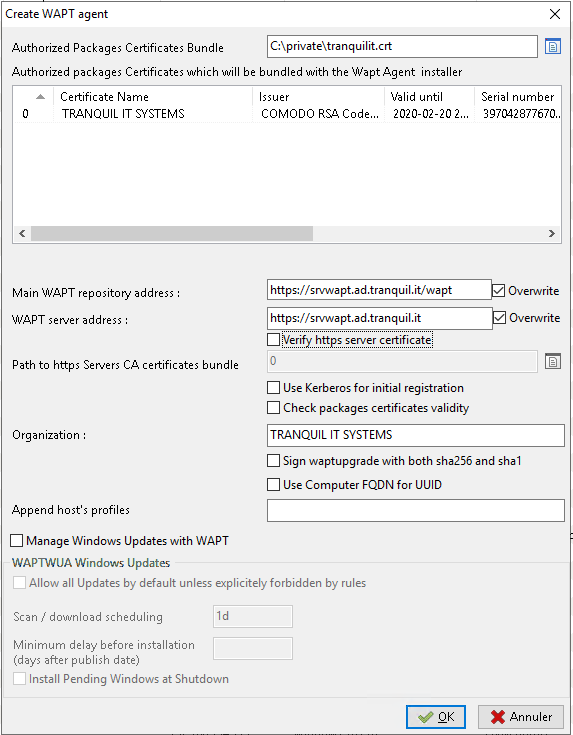
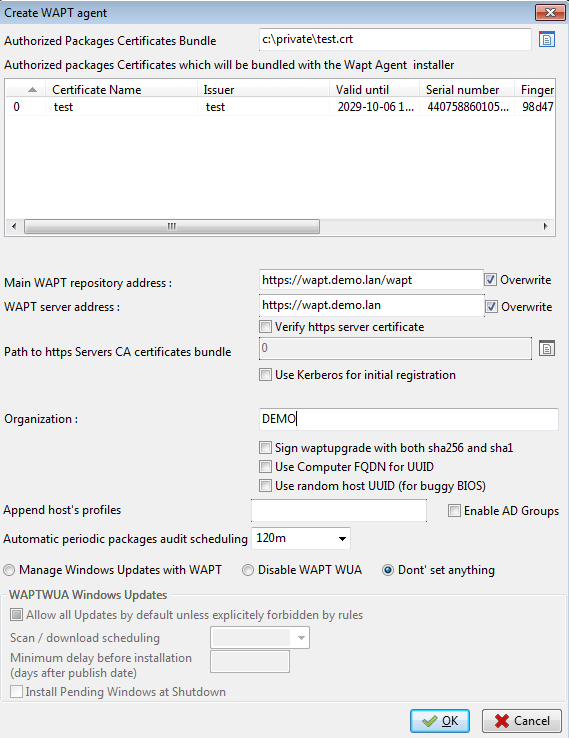
Additional information

diff --git a/source/wapt-configuration/waptagent/index.rst b/source/wapt-configuration/waptagent/index.rst
@@ -66,6 +66,7 @@ we have all files required to build the WAPT agent installer.
 
   * the checkbox :guilabel:`Verify the WAPT Server HTTPS certificate`;
 
+
   * the field :guilabel:`Path to the bundle of certificates` to verify
     the HTTPS certificate of the WAPT Server;
 
@@ -73,17 +74,30 @@ we have all files required to build the WAPT agent installer.
 
   * the field :guilabel:`Organization` to identify the origin of WAPT packages;
 
+  * the field :guilabel:`Sign waptupgrade with both sha256 and sha1` can be ignored because it is only useful when upgrading from version 1.3 ;
+  
+  * the field :guilabel:`Use computer FQDN for UUID` crazy can be checked if you want to uniquely identify your computer from their name rather than from their BIOS serial number;
+
+  * the field :guilabel:`Use computer FQDN for UUID` crazy can be checked if you want to uniquely identify your computer from their name rather than from their BIOS serial number;
+  
+.. danger::
+
+   * The checkbox **Use Kerberos for the initial registration** must be checked
+     **ONLY IF** you have followed the documentation
+     on **Configuring the Kerberos authentication**.
+   
+   * The checkbox **Verify the WAPT Server HTTPS certificate**must be checked
+     **ONLY IF** you have followed the documentation
+     on **Activating the verification of the SSL / TLS certificate**.
+
+
 .. figure:: waptagent-organisation-info.png
   :align: center
   :alt: Fill in the informations on your Organisation
 
   Fill in the informations on your Organisation
+  
 
-.. danger::
-
-   The checkbox **Use Kerberos for the initial registration** must be checked
-   **ONLY IF** you have followed the documentation
-   on **Configuring the Kerberos authentication**.
 
 * provide the password for unlocking the private key:
 

diff --git a/source/wapt-create-packages/package-msi-gui/index.rst b/source/wapt-create-packages/package-msi-gui/index.rst
@@ -56,7 +56,7 @@ from the 7-zip official website.
 
 * Two solutions are available:
 
-  * click on :guilabel:`OK` (recommended) to launch package customization;
+  * click on :guilabel:`Make and edit ....` (recommended) to launch package customization;
 
   * click on :guilabel:`Build and upload` to directly build and upload
     the package.
@@ -80,7 +80,7 @@ Before uploading a package to your WAPT repository, you may choose to customize
 its behavior to your Organization's needs by editing it with
 :program:`PyScripter`.
 
-When creating the package template, click on :guilabel:`OK`.
+When creating the package template, click on :guilabel:`Make and edit ....`.
 
 .. figure:: package_wizard_ok.png
   :align: center

diff --git a/source/security/security-configuration-certificate-authentication.rst b/source/security/security-configuration-certificate-authentication.rst
@@ -137,4 +137,9 @@ Example config file :
         }
 
     }
+	
+.. attention::
+
+   Be careful, wapt does not support crl at the moment, which means that when you delete a machine in the console, it still has access to the wapt repo. 
+   
 
